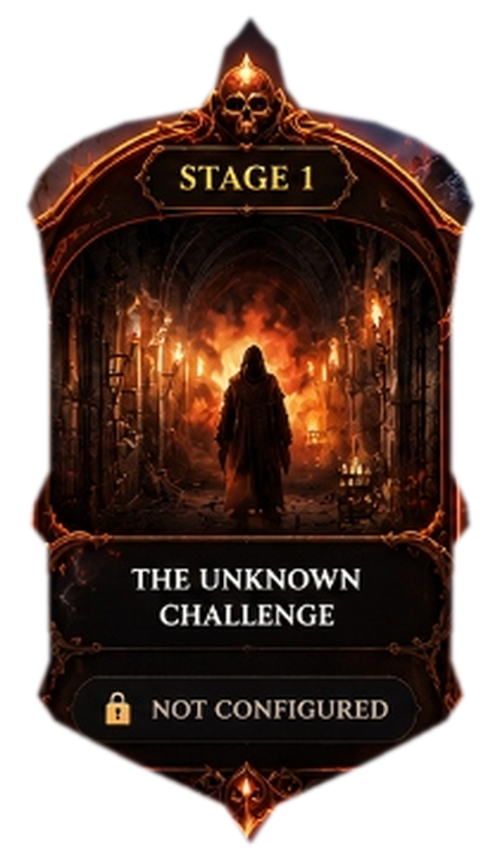
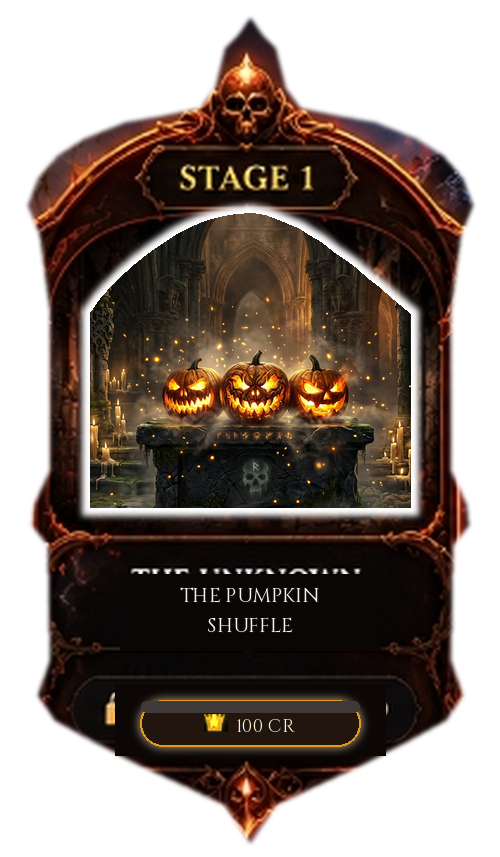
feat(stage1): rename to The Pumpkin Shuffle, update portal artwork, and eliminate lock artifact behind completed badge

diff --git a/src/components/game/haunted/HauntedPortalCard.tsx b/src/components/game/haunted/HauntedPortalCard.tsx
@@ -30,6 +30,7 @@ export const HauntedPortalCard: React.FC<HauntedPortalCardProps> = ({
   const themeStyles = {
     orange: {
       relicImg: '/assets/halloween/portals/relic_full_stage1.png',
+      completedRelicImg: '/assets/halloween/portals/relic_full_stage1_completed.png',
       auraBg: 'bg-[radial-gradient(ellipse_at_50%_45%,rgba(249,115,22,0.45)_0%,rgba(194,65,12,0.2)_50%,transparent_75%)]',
       hoverGlow: 'group-hover:drop-shadow-[0_0_28px_rgba(249,115,22,0.85)]',
       pillBorder: 'border-orange-500/70',
@@ -43,6 +44,7 @@ export const HauntedPortalCard: React.FC<HauntedPortalCardProps> = ({
     },
     purple: {
       relicImg: '/assets/halloween/portals/relic_full_stage2.png',
+      completedRelicImg: '/assets/halloween/portals/relic_full_stage2_completed.png',
       auraBg: 'bg-[radial-gradient(ellipse_at_50%_45%,rgba(168,85,247,0.45)_0%,rgba(126,34,206,0.2)_50%,transparent_75%)]',
       hoverGlow: 'group-hover:drop-shadow-[0_0_28px_rgba(168,85,247,0.85)]',
       pillBorder: 'border-purple-500/70',
@@ -56,6 +58,7 @@ export const HauntedPortalCard: React.FC<HauntedPortalCardProps> = ({
     },
     emerald: {
       relicImg: '/assets/halloween/portals/relic_full_stage3.png',
+      completedRelicImg: '/assets/halloween/portals/relic_full_stage3_completed.png',
       auraBg: 'bg-[radial-gradient(ellipse_at_50%_45%,rgba(20,184,166,0.45)_0%,rgba(13,148,136,0.2)_50%,transparent_75%)]',
       hoverGlow: 'group-hover:drop-shadow-[0_0_28px_rgba(20,184,166,0.85)]',
       pillBorder: 'border-teal-500/70',
@@ -68,6 +71,9 @@ export const HauntedPortalCard: React.FC<HauntedPortalCardProps> = ({
       completedShadow: 'shadow-[0_0_16px_rgba(20,184,166,0.6)]',
     },
   }[colorTheme];
+
+  const currentRelicImg =
+    status === 'completed' ? themeStyles.completedRelicImg : themeStyles.relicImg;
 
   const isNotConfigured = status === 'not_configured';
 
@@ -94,7 +100,7 @@ export const HauntedPortalCard: React.FC<HauntedPortalCardProps> = ({
       {/* 2. Freestanding Gothic Reliquary Structure & Frame */}
       <div className="relative w-full z-10 transition-all duration-300 group-hover:scale-[1.03] group-hover:brightness-110 active:scale-[0.98]">
         <img
-          src={themeStyles.relicImg}
+          src={currentRelicImg}
           alt={`Stage ${stageNumber}: ${title}`}
           className={`w-full h-auto object-contain filter drop-shadow-[0_12px_28px_rgba(0,0,0,0.95)] ${themeStyles.hoverGlow} transition-all duration-300 pointer-events-none`}
           loading="eager"
@@ -102,7 +108,7 @@ export const HauntedPortalCard: React.FC<HauntedPortalCardProps> = ({
 
         {/* 3. Dynamic Status Overlays: Seamlessly replaces the reward button on the relic frame */}
         {status === 'completed' && (
-          <div className="absolute top-[77.1%] left-1/2 -translate-x-1/2 w-[48%] h-[9.8%] z-20 pointer-events-none flex items-center justify-center">
+          <div className="absolute top-[77.1%] left-1/2 -translate-x-1/2 w-[50%] h-[9.8%] z-20 pointer-events-none flex items-center justify-center">
             <div
               className={`w-full h-full rounded-full ${themeStyles.completedBg} border-2 ${themeStyles.completedBorder} ${themeStyles.completedShadow} flex items-center justify-center gap-1 sm:gap-1.5 px-2`}
             >

diff --git a/src/components/game/Round1Dashboard.tsx b/src/components/game/Round1Dashboard.tsx
@@ -209,7 +209,7 @@ export const Round1Dashboard: React.FC<Round1DashboardProps> = ({
 
         {/* The Three Compact Gothic Portals in One Centered Horizontal Row */}
         <div className="w-full flex flex-col md:flex-row flex-nowrap md:flex-nowrap justify-center items-center gap-4 sm:gap-6 lg:gap-8 max-w-5xl mx-auto pb-4 md:pb-0">
-          {/* PORTAL 01: The Unknown Challenge (Burnt Orange) */}
+          {/* PORTAL 01: The Pumpkin Shuffle (Burnt Orange) */}
           <HauntedPortalCard
             stageId="stage-1"
             stageNumber={1}
@@ -217,7 +217,7 @@ export const Round1Dashboard: React.FC<Round1DashboardProps> = ({
             rewardCredits={100}
             status={teamSession.stages['stage-1'].status}
             colorTheme="orange"
-            artworkUrl="/assets/halloween/portals/portal_stage1_crypt.jpg"
+            artworkUrl="/assets/halloween/portals/portal_stage1_pumpkin_shuffle.jpg"
             isExpired={isExpired}
             progressText={
               (teamSession.stage1State?.trials.filter((t) => t.status !== 'pending').length ?? 0) > 0

diff --git a/server/routes/admin.routes.ts b/server/routes/admin.routes.ts
@@ -203,7 +203,7 @@ adminRouter.post('/teams', requireAdminAuth, (req, res) => {
   `).run(teamId, teamName.trim(), hash, salt, generatedPassword, now, now);
 
   const stages = [
-    { id: 1, name: 'The Unknown Challenge', max: 100, status: 'NOT CONFIGURED' },
+    { id: 1, name: 'The Pumpkin Shuffle', max: 100, status: 'AVAILABLE' },
     { id: 2, name: 'The Haunted Image Hunt', max: 150, status: 'AVAILABLE' },
     { id: 3, name: 'The Forgotten Graveyard', max: 250, status: 'LOCKED' },
   ];

diff --git a/database/db.ts b/database/db.ts
@@ -98,7 +98,7 @@ export function seedBootstrapData(): void {
 
       // Seed initial stages for each team
       const stages = [
-        { id: 1, name: 'The Unknown Challenge', max: 100, status: 'NOT CONFIGURED' },
+        { id: 1, name: 'The Pumpkin Shuffle', max: 100, status: 'AVAILABLE' },
         { id: 2, name: 'The Haunted Image Hunt', max: 150, status: 'AVAILABLE' },
         { id: 3, name: 'The Forgotten Graveyard', max: 250, status: 'LOCKED' },
       ];

diff --git a/scripts/rebuild_stage1_portal.py b/scripts/rebuild_stage1_portal.py
@@ -1,0 +1,148 @@
+import os
+from PIL import Image, ImageDraw, ImageFont, ImageFilter
+import numpy as np
+
+def build_pills(draw_text, fill_color, border_color, glow_color, is_crown=False):
+    # Returns 300x90 transparent image with centered pill
+    canvas = Image.new('RGBA', (300, 90), (0, 0, 0, 0))
+    x0, y0, x1, y1 = 40, 22, 260, 68
+    radius = 23
+
+    # Outer glow
+    glow = Image.new('RGBA', (300, 90), (0, 0, 0, 0))
+    glow_draw = ImageDraw.Draw(glow)
+    glow_draw.rounded_rectangle([x0 - 2, y0 - 2, x1 + 2, y1 + 2], radius=radius + 2, fill=glow_color)
+    glow = glow.filter(ImageFilter.GaussianBlur(radius=4))
+    canvas = Image.alpha_composite(canvas, glow)
+    draw = ImageDraw.Draw(canvas)
+
+    # Pill background and border
+    draw.rounded_rectangle([x0, y0, x1, y1], radius=radius, fill=fill_color, outline=border_color, width=2)
+    # Top highlight
+    draw.rounded_rectangle([x0 + 1, y0 + 1, x1 - 1, y0 + 12], radius=radius, fill=(255, 255, 255, 30))
+
+    if is_crown:
+        crown = Image.open('C:/Users/yashm/.gemini/antigravity/brain/8f13d18b-3772-4740-bcdd-d4869ff605fe/crown_clean.png')
+        crown_arr = np.array(crown).copy()
+        gray = np.mean(crown_arr[:, :, :3], axis=2)
+        for c_idx, val in enumerate([251, 191, 36]):
+            crown_arr[:, :, c_idx] = np.clip(gray * (val / 160.0), 0, 255).astype(np.uint8)
+        gold_crown = Image.fromarray(crown_arr).resize((24, 18), Image.Resampling.LANCZOS)
+
+        font = ImageFont.truetype('Cinzel.ttf', 18)
+        tb = draw.textbbox((0, 0), draw_text, font=font)
+        tw = tb[2] - tb[0]
+        th = tb[3] - tb[1]
+
+        total_w = 24 + 8 + tw
+        start_x = (300 - total_w) // 2
+
+        crown_x = start_x
+        crown_y = y0 + (46 - 18) // 2
+        text_x = start_x + 24 + 8
+        text_y = y0 + (46 - th) // 2 - 2
+
+        canvas.paste(gold_crown, (crown_x, crown_y), gold_crown)
+        draw.text((text_x + 1, text_y + 1), draw_text, font=font, fill=(0, 0, 0, 230))
+        draw.text((text_x, text_y), draw_text, font=font, fill=(254, 243, 199, 255))
+    else:
+        font = ImageFont.truetype('Cinzel.ttf', 16)
+        tb = draw.textbbox((0, 0), draw_text, font=font)
+        tw = tb[2] - tb[0]
+        th = tb[3] - tb[1]
+        text_x = (300 - tw) // 2
+        text_y = y0 + (46 - th) // 2 - 2
+        draw.text((text_x + 1, text_y + 1), draw_text, font=font, fill=(0, 0, 0, 240))
+        draw.text((text_x, text_y), draw_text, font=font, fill=(254, 243, 199, 255))
+
+    return canvas
+
+def composite_relic(is_completed=False):
+    # 1. Base frame
+    fr = Image.open('public/assets/halloween/portals/relic_frame_stage1.png').copy()
+    mask_im = Image.open('C:/Users/yashm/.gemini/antigravity/brain/8f13d18b-3772-4740-bcdd-d4869ff605fe/window_mask.png')
+    ps = Image.open('public/assets/halloween/portals/portal_stage1_pumpkin_shuffle.jpg')
+
+    # 2. Prepare pumpkin artwork for window (346 x 320 at X=77, Y=200)
+    target_w, target_h = 346, 320
+    ps_w, ps_h = ps.size
+    aspect = target_w / target_h
+    new_h = int(ps_w / aspect)
+    crop_top = int((ps_h - new_h) * 0.40)
+    ps_cropped = ps.crop((0, crop_top, ps_w, crop_top + new_h))
+    ps_scaled = ps_cropped.resize((target_w, target_h), Image.Resampling.LANCZOS)
+
+    canvas_bg = Image.new('RGBA', (500, 857), (0, 0, 0, 0))
+    canvas_bg.paste(ps_scaled, (77, 200))
+    canvas_bg_arr = np.array(canvas_bg)
+    canvas_bg_arr[~(np.array(mask_im) > 0)] = 0
+    canvas_bg = Image.fromarray(canvas_bg_arr)
+
+    # Composite frame on top of artwork window
+    combined = Image.alpha_composite(canvas_bg, fr)
+
+    # 3. Overwrite Title Plaque (X: 100..400, Y: 565..660)
+    draw = ImageDraw.Draw(combined)
+    # Fill inner black plaque area (X: 120..380, Y: 575..650) to erase 'THE UNKNOWN CHALLENGE'
+    draw.rectangle([120, 574, 380, 650], fill=(10, 6, 5, 255))
+
+    font_title = ImageFont.truetype('Cinzel.ttf', 20)
+    text1 = 'THE PUMPKIN'
+    text2 = 'SHUFFLE'
+
+    tb1 = draw.textbbox((0, 0), text1, font=font_title)
+    w1 = tb1[2] - tb1[0]
+    tb2 = draw.textbbox((0, 0), text2, font=font_title)
+    w2 = tb2[2] - tb2[0]
+
+    # Center is at X = 250
+    x1 = (500 - w1) // 2
+    x2 = (500 - w2) // 2
+    y1 = 582
+    y2 = 612
+
+    # Draw drop shadow
+    draw.text((x1 + 1, y1 + 1), text1, font=font_title, fill=(0, 0, 0, 230))
+    draw.text((x2 + 1, y2 + 1), text2, font=font_title, fill=(0, 0, 0, 230))
+
+    # Draw ivory lettering
+    draw.text((x1, y1), text1, font=font_title, fill=(247, 244, 238, 255))
+    draw.text((x2, y2), text2, font=font_title, fill=(247, 244, 238, 255))
+
+    # 4. Overwrite Bottom Button Slot (X: 100..400, Y: 680..770) to completely erase '🔒 NOT CONFIGURED'
+    # Fill button background with dark gradient matching relic base
+    draw.rectangle([115, 684, 385, 755], fill=(12, 7, 5, 255))
+
+    # Generate pill
+    if is_completed:
+        pill = build_pills(
+            'COMPLETED ✓',
+            fill_color=(28, 11, 4, 245),
+            border_color=(245, 158, 11, 230),
+            glow_color=(245, 158, 11, 120),
+            is_crown=False
+        )
+    else:
+        pill = build_pills(
+            '100 CR',
+            fill_color=(24, 11, 4, 245),
+            border_color=(245, 158, 11, 230),
+            glow_color=(245, 158, 11, 120),
+            is_crown=True
+        )
+
+    # Paste pill at X=100, Y=678 (pill inside is centered at X=150, Y=45 => in full image center is X=250, Y=723)
+    combined.paste(pill, (100, 678), pill)
+
+    return combined
+
+if __name__ == '__main__':
+    active_stage1 = composite_relic(is_completed=False)
+    active_stage1.save('public/assets/halloween/portals/relic_full_stage1.png')
+    active_stage1.save('C:/Users/yashm/.gemini/antigravity/brain/8f13d18b-3772-4740-bcdd-d4869ff605fe/relic_full_stage1_verified.png')
+
+    comp_stage1 = composite_relic(is_completed=True)
+    comp_stage1.save('public/assets/halloween/portals/relic_full_stage1_completed.png')
+    comp_stage1.save('C:/Users/yashm/.gemini/antigravity/brain/8f13d18b-3772-4740-bcdd-d4869ff605fe/relic_full_stage1_completed_verified.png')
+
+    print('Successfully rebuilt relic_full_stage1.png and relic_full_stage1_completed.png!')

diff --git a/scripts/generate_test_pill.py b/scripts/generate_test_pill.py
@@ -1,0 +1,66 @@
+from PIL import Image, ImageDraw, ImageFont, ImageFilter
+import numpy as np
+
+# Create 300x90 transparent canvas for the button
+canvas = Image.new('RGBA', (300, 90), (0, 0, 0, 0))
+draw = ImageDraw.Draw(canvas)
+
+# Capsule coordinates inside 300x90 canvas:
+# Center is X=150, Y=45.
+# Width = 220, Height = 46.
+# x0 = 40, y0 = 22, x1 = 260, y1 = 68.
+x0, y0, x1, y1 = 40, 22, 260, 68
+radius = 23
+
+# 1. Outer glow layer
+glow = Image.new('RGBA', (300, 90), (0, 0, 0, 0))
+glow_draw = ImageDraw.Draw(glow)
+glow_draw.rounded_rectangle([x0 - 2, y0 - 2, x1 + 2, y1 + 2], radius=radius + 2, fill=(245, 158, 11, 120))
+glow = glow.filter(ImageFilter.GaussianBlur(radius=4))
+canvas = Image.alpha_composite(canvas, glow)
+draw = ImageDraw.Draw(canvas)
+
+# 2. Pill background
+draw.rounded_rectangle([x0, y0, x1, y1], radius=radius, fill=(24, 11, 4, 240), outline=(245, 158, 11, 230), width=2)
+
+# 3. Inner subtle top highlight
+draw.rounded_rectangle([x0 + 1, y0 + 1, x1 - 1, y0 + 12], radius=radius, fill=(251, 191, 36, 40))
+
+# 4. Gold Crown Icon
+crown = Image.open('C:/Users/yashm/.gemini/antigravity/brain/8f13d18b-3772-4740-bcdd-d4869ff605fe/crown_clean.png')
+# Recolor crown to gold/amber:
+crown_arr = np.array(crown).copy()
+gray = np.mean(crown_arr[:, :, :3], axis=2)
+# Map gray to gold [251, 191, 36]
+for c_idx, val in enumerate([251, 191, 36]):
+    crown_arr[:, :, c_idx] = np.clip(gray * (val / 160.0), 0, 255).astype(np.uint8)
+
+gold_crown = Image.fromarray(crown_arr)
+# Resize slightly if needed
+gold_crown = gold_crown.resize((24, 18), Image.Resampling.LANCZOS)
+
+# Position crown and text
+font = ImageFont.truetype('Cinzel.ttf', 18)
+text = '100 CR'
+tb = draw.textbbox((0, 0), text, font=font)
+tw = tb[2] - tb[0]
+th = tb[3] - tb[1]
+
+# Total content width = crown_w (24) + gap (8) + tw
+total_w = 24 + 8 + tw
+start_x = (300 - total_w) // 2
+
+crown_x = start_x
+crown_y = y0 + (46 - 18) // 2
+text_x = start_x + 24 + 8
+text_y = y0 + (46 - th) // 2 - 2
+
+# Paste crown
+canvas.paste(gold_crown, (crown_x, crown_y), gold_crown)
+
+# Draw text shadow and text
+draw.text((text_x + 1, text_y + 1), text, font=font, fill=(0, 0, 0, 230))
+draw.text((text_x, text_y), text, font=font, fill=(254, 243, 199, 255))
+
+canvas.save('C:/Users/yashm/.gemini/antigravity/brain/8f13d18b-3772-4740-bcdd-d4869ff605fe/test_100_cr_pill.png')
+print('test_100_cr_pill saved')

diff --git a/scripts/verify_pumpkin_portal.py b/scripts/verify_pumpkin_portal.py
@@ -1,0 +1,49 @@
+import asyncio
+from playwright.async_api import async_playwright
+
+async def main():
+    async with async_playwright() as p:
+        browser = await p.chromium.launch()
+        page = await browser.new_page(viewport={'width': 1280, 'height': 720})
+        
+        # 1. Available state
+        await page.goto('http://127.0.0.1:5173/?round=1&mock=1')
+        await page.wait_for_selector('text=ROUND 01')
+        await page.wait_for_timeout(1000)
+        await page.screenshot(path='C:/Users/yashm/.gemini/antigravity/brain/8f13d18b-3772-4740-bcdd-d4869ff605fe/portal_hub_available.png')
+        
+        # Crop stage 1 card from screenshot
+        # Stage 1 card is the leftmost portal card
+        # Let's locate the card
+        card1 = page.locator('[aria-label*="Stage 1"]').first
+        if await card1.count() > 0:
+            await card1.screenshot(path='C:/Users/yashm/.gemini/antigravity/brain/8f13d18b-3772-4740-bcdd-d4869ff605fe/card1_available.png')
+            print('Card 1 available screenshot saved')
+
+        # 2. Mark stage 1 completed via localStorage or evaluate
+        await page.evaluate('''() => {
+            const raw = localStorage.getItem('fc_round1_sessions_v2');
+            if (raw) {
+                const data = JSON.parse(raw);
+                for (const k in data) {
+                    if (data[k].stages && data[k].stages['stage-1']) {
+                        data[k].stages['stage-1'].status = 'completed';
+                    }
+                }
+                localStorage.setItem('fc_round1_sessions_v2', JSON.stringify(data));
+            }
+        }''')
+        
+        await page.reload()
+        await page.wait_for_selector('text=ROUND 01')
+        await page.wait_for_timeout(1000)
+        await page.screenshot(path='C:/Users/yashm/.gemini/antigravity/brain/8f13d18b-3772-4740-bcdd-d4869ff605fe/portal_hub_completed.png')
+        
+        card1_comp = page.locator('[aria-label*="Stage 1"]').first
+        if await card1_comp.count() > 0:
+            await card1_comp.screenshot(path='C:/Users/yashm/.gemini/antigravity/brain/8f13d18b-3772-4740-bcdd-d4869ff605fe/card1_completed.png')
+            print('Card 1 completed screenshot saved')
+
+        await browser.close()
+
+asyncio.run(main())

diff --git a/scripts/inspect_portal_elements.py b/scripts/inspect_portal_elements.py
@@ -1,0 +1,16 @@
+from PIL import Image
+import numpy as np
+
+fb1 = Image.open('C:/Users/yashm/.gemini/antigravity/brain/8f13d18b-3772-4740-bcdd-d4869ff605fe/frame_btn_1.png')
+fb2 = Image.open('C:/Users/yashm/.gemini/antigravity/brain/8f13d18b-3772-4740-bcdd-d4869ff605fe/frame_btn_2.png')
+fb3 = Image.open('C:/Users/yashm/.gemini/antigravity/brain/8f13d18b-3772-4740-bcdd-d4869ff605fe/frame_btn_3.png')
+
+ft1 = Image.open('C:/Users/yashm/.gemini/antigravity/brain/8f13d18b-3772-4740-bcdd-d4869ff605fe/frame_title_1.png')
+ft2 = Image.open('C:/Users/yashm/.gemini/antigravity/brain/8f13d18b-3772-4740-bcdd-d4869ff605fe/frame_title_2.png')
+
+# In fb2: what is the text? It says "150 CR" with crown icon.
+# In fb1: what is the text? It says "🔒 NOT CONFIGURED".
+# In ft1: what is the text? It says "THE UNKNOWN CHALLENGE".
+# In ft2: what is the text? It says "THE HAUNTED IMAGE HUNT".
+
+print("Loaded all images successfully")

diff --git a/scripts/inspect_breakdown.py b/scripts/inspect_breakdown.py
@@ -121,3 +121,4 @@ async def inspect_breakdown():
 
 if __name__ == '__main__':
     asyncio.run(inspect_breakdown())
+

diff --git a/docs/VIEWPORT_FIT_REPORT.md b/docs/VIEWPORT_FIT_REPORT.md
@@ -79,3 +79,4 @@ Automated Playwright audit was executed across all 5 standard desktop screen res
   - `Stage3ForgottenGraveyard.test.tsx`: 4 passed (100%)
   - `Stage2HauntedImageHunt.test.tsx`: 4 passed (100%)
   - Total: **8/8 tests passed**
+
